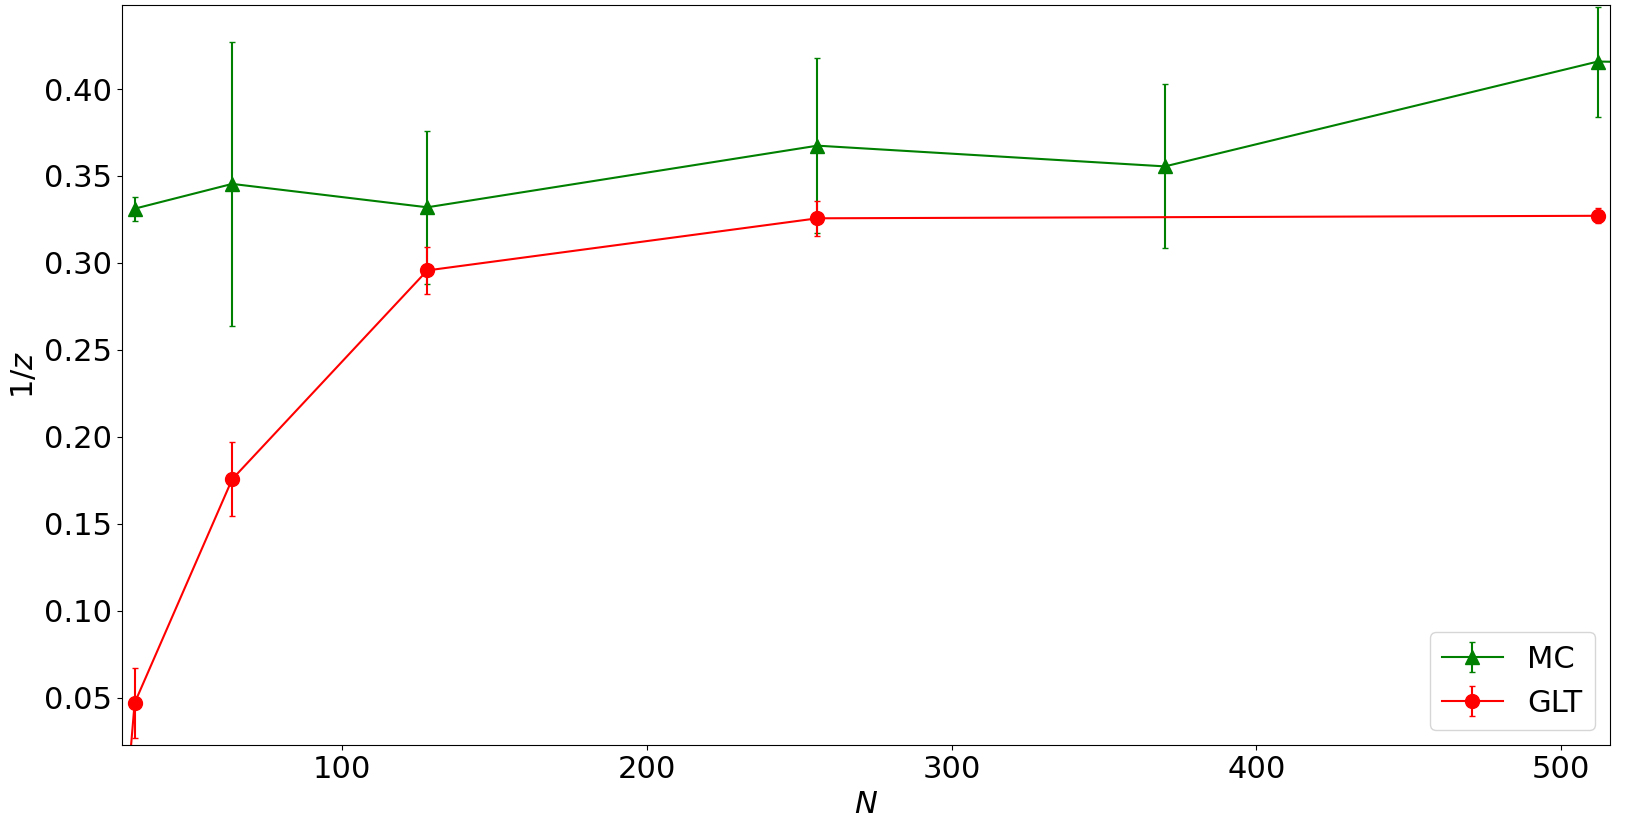
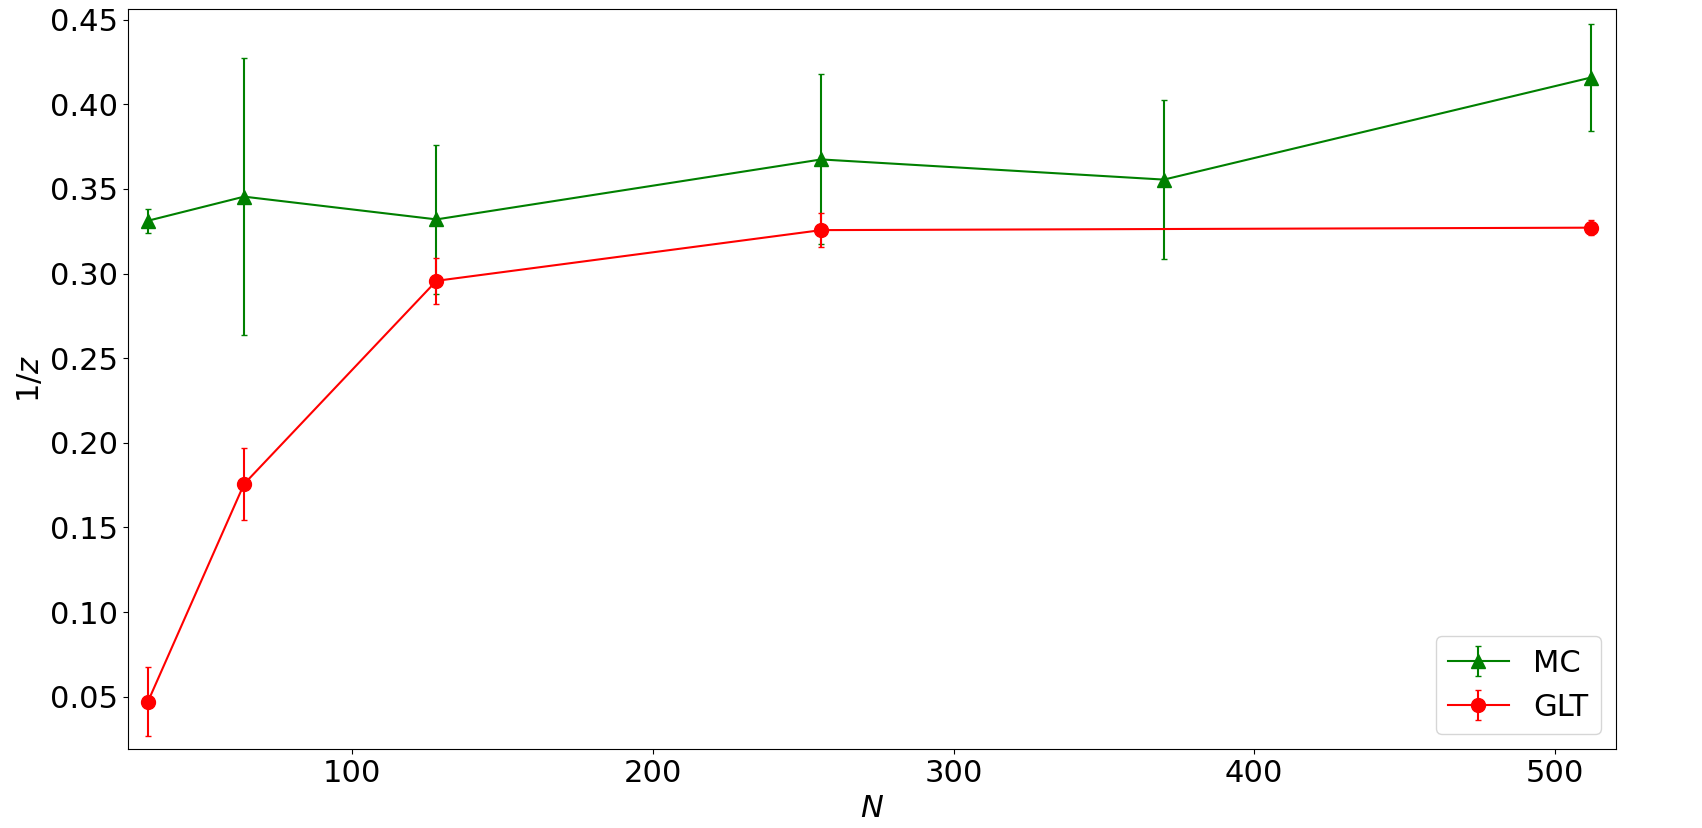
More paper figures - editted

diff --git a/Codes for combined figures/L vs t combined.py b/Codes for combined figures/L vs t combined.py
@@ -56,7 +56,7 @@ axSn1 = figSn1.gca()
 axSn1.tick_params(labelsize=22)
 axSn1.set_xlabel(r"$k$", fontsize=22)
 axSn1.set_ylabel(r"S($k$)$/$S($k$)$|_{t=0}$", fontsize=22)
-axSn1.set_xlim(0, np.pi/4)
+axSn1.set_xlim(0, np.pi/12)
 plotted_ts1 = [1, 5, 10, 15]   # Update once data is produced
 for i in plotted_ts1:   # Update once data is produced
     #time = str(int(nth*(i-1) + t0)) + " MCS"
@@ -70,7 +70,7 @@ axSn2 = figSn2.gca()
 axSn2.tick_params(labelsize=22)
 axSn2.set_xlabel(r"$k$", fontsize=22)
 axSn2.set_ylabel(r"S($k$)$/$S($k$)$|_{t=0}$", fontsize=22)
-axSn2.set_xlim(0, np.pi/4)
+axSn2.set_xlim(0, np.pi/12)
 plotted_ts2 = [1, 5, 10, 15]   # Update once data is produced
 for i in plotted_ts2:   # Update once data is produced
     #time = str(int(nth*(i-1) + t0)) + " MCS"
@@ -110,7 +110,7 @@ axUni1 = figUni1.gca()
 axUni1.tick_params(labelsize=22)
 axUni1.set_xlabel(r"$kt^{\frac{1}{z}}$", fontsize=22)
 axUni1.set_ylabel(r"$\frac{S(k) t^{-2/z} }{S(k)|_{t=0}}$", fontsize=22)
-axUni1.set_xlim(0, (np.pi/4)*t_vals1[-1]**m1)
+axUni1.set_xlim(0, (np.pi/12)*t_vals1[-1]**m1)
 
 for i in plotted_ts1:
     #time = str(int(nth*(i-1) + t0)) + " MCS"
@@ -123,7 +123,7 @@ axUni2 = figUni2.gca()
 axUni2.tick_params(labelsize=22)
 axUni2.set_xlabel(r"$kt^{\frac{1}{z}}$", fontsize=22)
 axUni2.set_ylabel(r"$\frac{S(k) t^{-2/z} }{S(k)|_{t=0}}$", fontsize=22)
-axUni2.set_xlim(0, (np.pi/4)*t_vals2[-1]**m2)
+axUni2.set_xlim(0, (np.pi/12)*t_vals2[-1]**m2)
 for i in plotted_ts2:
     #time = str(int(nth*(i-1) + t0)) + " MCS"
     time2 = str(int(t_vals2[i]))
@@ -139,7 +139,7 @@ axUni05a = figUni05a.gca()
 axUni05a.tick_params(labelsize=22)
 axUni05a.set_xlabel(r"$kt^{\frac{1}{2}}$", fontsize=22)
 axUni05a.set_ylabel(r"$\frac{S(k) t^{-1} }{S(k)|_{t=0}}$", fontsize=22)
-axUni05a.set_xlim(0, (np.pi/4)*t_vals1[-1]**m1)
+axUni05a.set_xlim(0, (np.pi/12)*t_vals1[-1]**m1)
 
 for i in plotted_ts1:
     #time = str(int(nth*(i-1) + t0)) + " MCS"
@@ -152,7 +152,7 @@ axUni05b = figUni05b.gca()
 axUni05b.tick_params(labelsize=22)
 axUni05b.set_xlabel(r"$kt^{\frac{1}{2}}$", fontsize=22)
 axUni05b.set_ylabel(r"$\frac{S(k) t^{-1} }{S(k)|_{t=0}}$", fontsize=22)
-axUni05b.set_xlim(0, (np.pi/4)*t_vals2[-1]**m2)
+axUni05b.set_xlim(0, (np.pi/12)*t_vals2[-1]**m2)
 for i in plotted_ts2:
     #time = str(int(nth*(i-1) + t0)) + " MCS"
     time2 = str(int(t_vals2[i]))

diff --git a/Codes for combined figures/convergence.py b/Codes for combined figures/convergence.py
@@ -36,6 +36,6 @@ ax = fig.gca()
 ax.tick_params(labelsize=22)
 ax.set_xlabel(r'$N$', fontsize=22)
 ax.set_ylabel(r'$1/z$', fontsize=22)
-ax.errorbar(Ns, exponents, yerr=exp_errs, capsize=2, marker="^", color="g", ms=10, label="MC")
-ax.errorbar(Ns2, zlist2, yerr=zerr2, capsize=2, marker="o", color="r", ms=10, label="GLT")
+ax.errorbar(Ns[:-2], exponents[:-2], yerr=exp_errs[:-2], capsize=2, marker="^", color="g", ms=10, label="MC")
+ax.errorbar(Ns2[4:], zlist2[4:], yerr=zerr2[4:], capsize=2, marker="o", color="r", ms=10, label="GLT")
 ax.legend(fontsize=22)

diff --git a/Ising MC/Sk over many inits.py b/Ising MC/Sk over many inits.py
@@ -23,8 +23,7 @@ t0 = int(N/10)
 tm = int(N*0.64)
 nth = int((tm-t0)/15)
 
-reps = 2  # number of runs over different initial conditions
-#reps = 20
+reps = 60  # number of runs over different initial conditions
 dk = 1
 
 # set up arrays and length values:

diff --git a/Ising MC/z convergence with N.py b/Ising MC/z convergence with N.py
@@ -21,7 +21,7 @@ T = 0.1*Tc
 
 moment = 1
 
-reps = 20  # number of runs over different initial conditions
+reps = 60  # number of runs over different initial conditions
 dk = 1
 n_nths = 12
 upper_t_cut = 0.64   # or use 0.8 as in some papers
